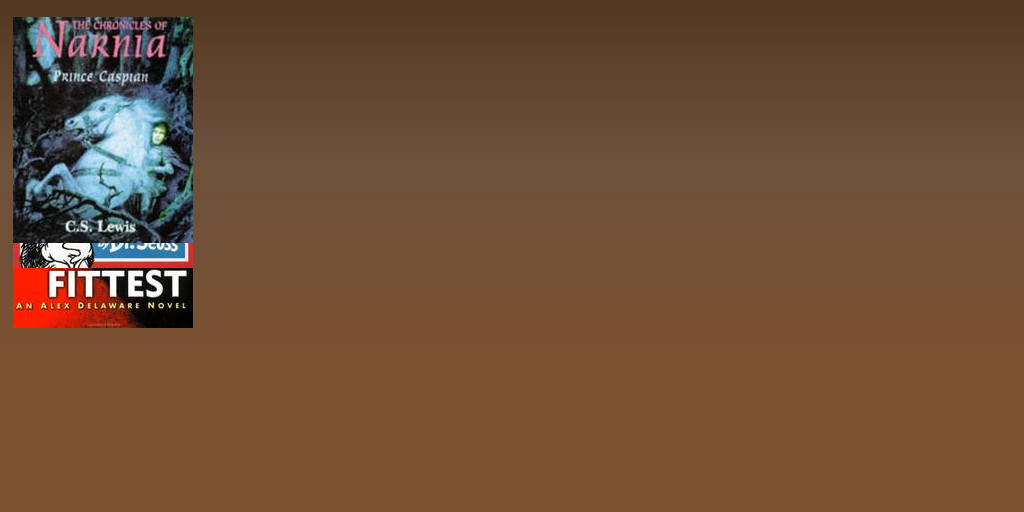
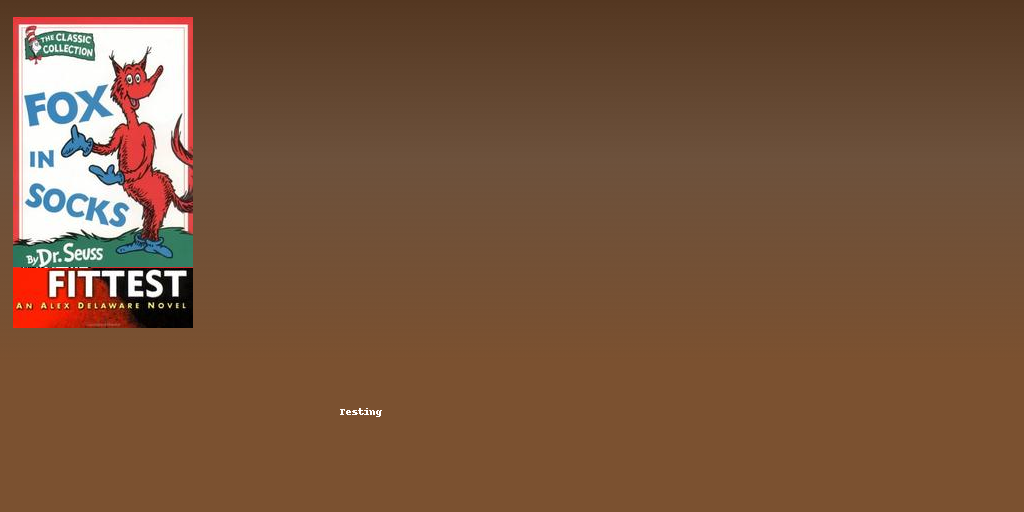
Add recommendation text

Changed region(s): [[0.0, 0.0312, 0.1875, 0.5312], [0.3438, 0.7812, 0.375, 0.8125]]

diff --git a/openlibrary/coverstore/code.py b/openlibrary/coverstore/code.py
@@ -11,6 +11,8 @@ from openlibrary.plugins.openlibrary.lists import create_list_preview
 import web
 
 from PIL import Image
+from PIL import ImageDraw
+from PIL import ImageFont
 
 from openlibrary.coverstore import config, db, ratelimit
 from openlibrary.coverstore.coverlib import read_file, read_image, save_image
@@ -525,6 +527,8 @@ def overlay_covers_over_background():
     and put their cover in the correct spot in order to create a new image for social-card"""
     
     five_seeds = create_list_preview("/people/openlibrary/lists/OL1L")
+    lst = web.ctx.site.get("/people/openlibrary/lists/OL1L")
+    title=lst.name
     background = Image.open("/openlibrary/static/images/Twitter_Post_Background_Shelf_Color.png")
     
     text_size=(344,33)
@@ -532,7 +536,7 @@ def overlay_covers_over_background():
     text_position=(340,406)
     logo_position=(823,439)
     for seed in five_seeds:
-        cover = seed.get_cover()
+        cover = seed.get_cover()        
 
         if  cover:
             response = requests.get(f"https://covers.openlibrary.org/b/id/{cover.id}-M.jpg")
@@ -545,5 +549,9 @@ def overlay_covers_over_background():
             # background = background.resize(size,Image.ANTIALIAS)
 
             background.paste(img, (13, 17))
-    
+    draw = ImageDraw.Draw(background)
+    #myFont = ImageFont.truetype('FreeMono.ttf', 65)
+    draw.text((340, 406), title, fill =(255, 255, 255))
     background.save('social-card-image.png',"PNG")
+    
+    
